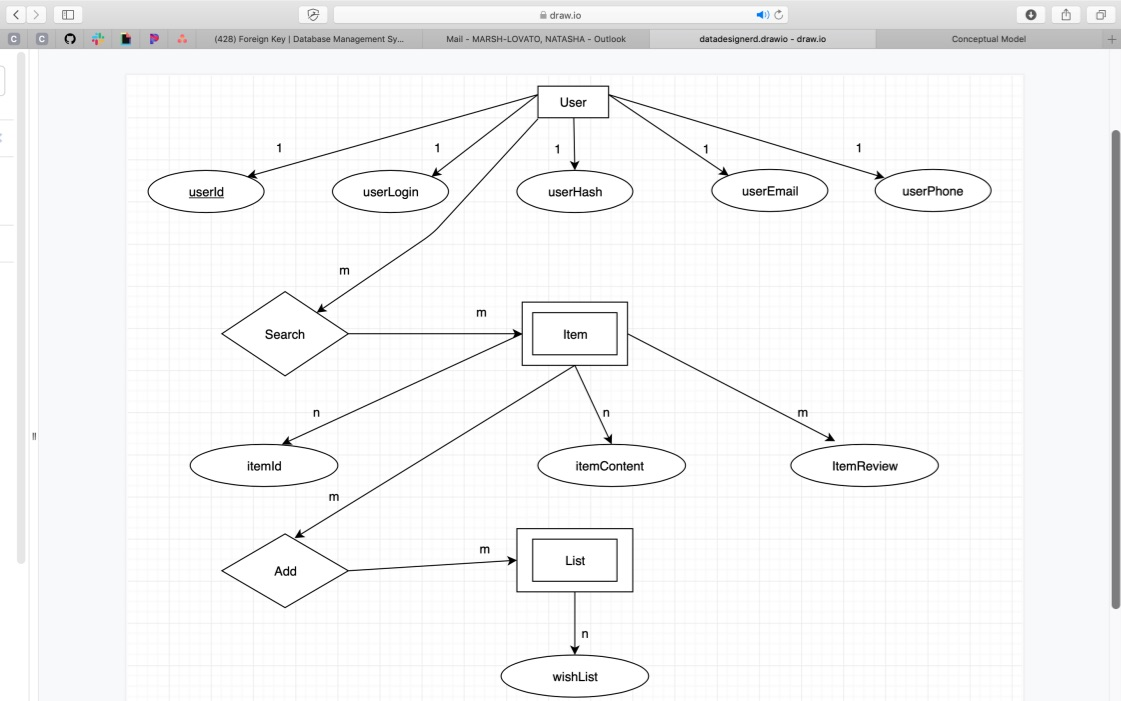
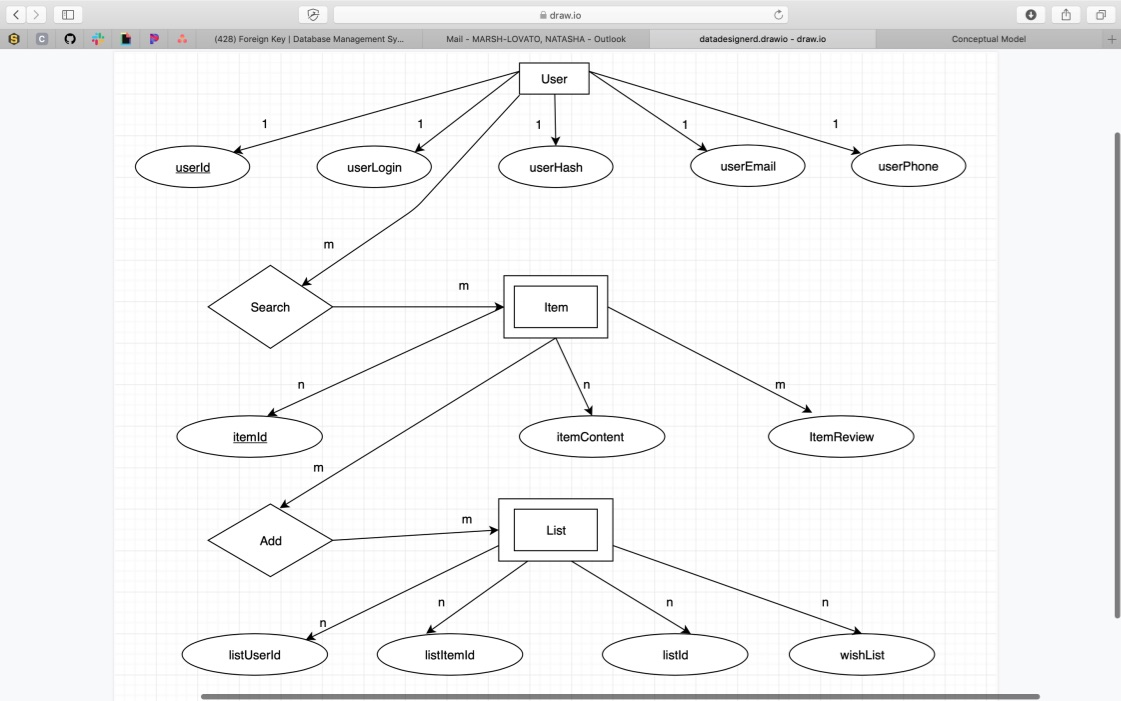
Edited erd

diff --git a/epic/conceptualmodel.php b/epic/conceptualmodel.php
@@ -24,7 +24,7 @@
 
 		<h3>Item</h3>
 		<ul>
-			<li>itemId (foreign key)</li>
+			<li>itemId (primary key)</li>
 			<li>itemContent</li>
 			<li>itemReview</li>
 		</ul>
